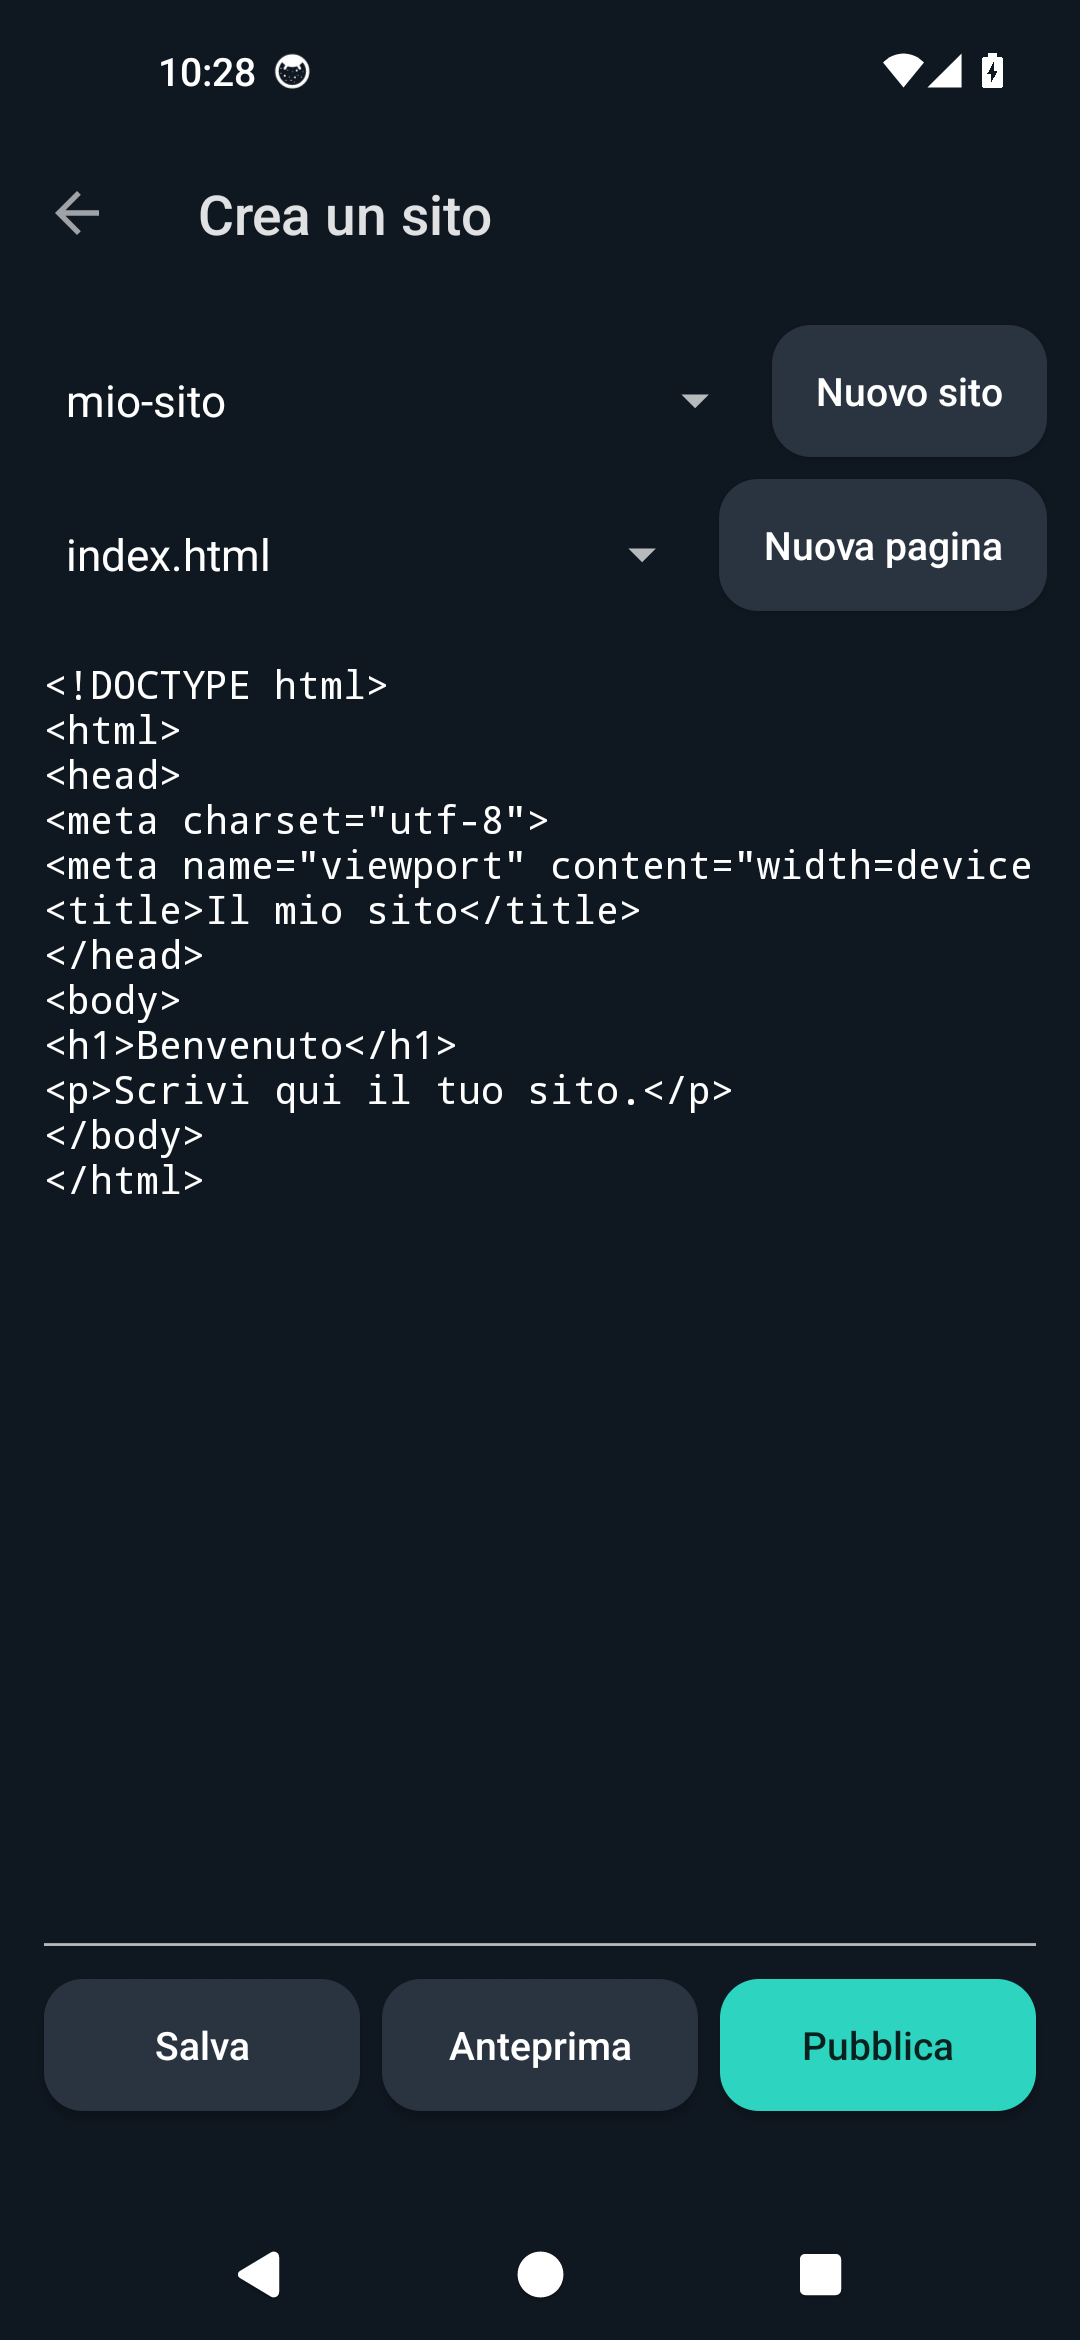
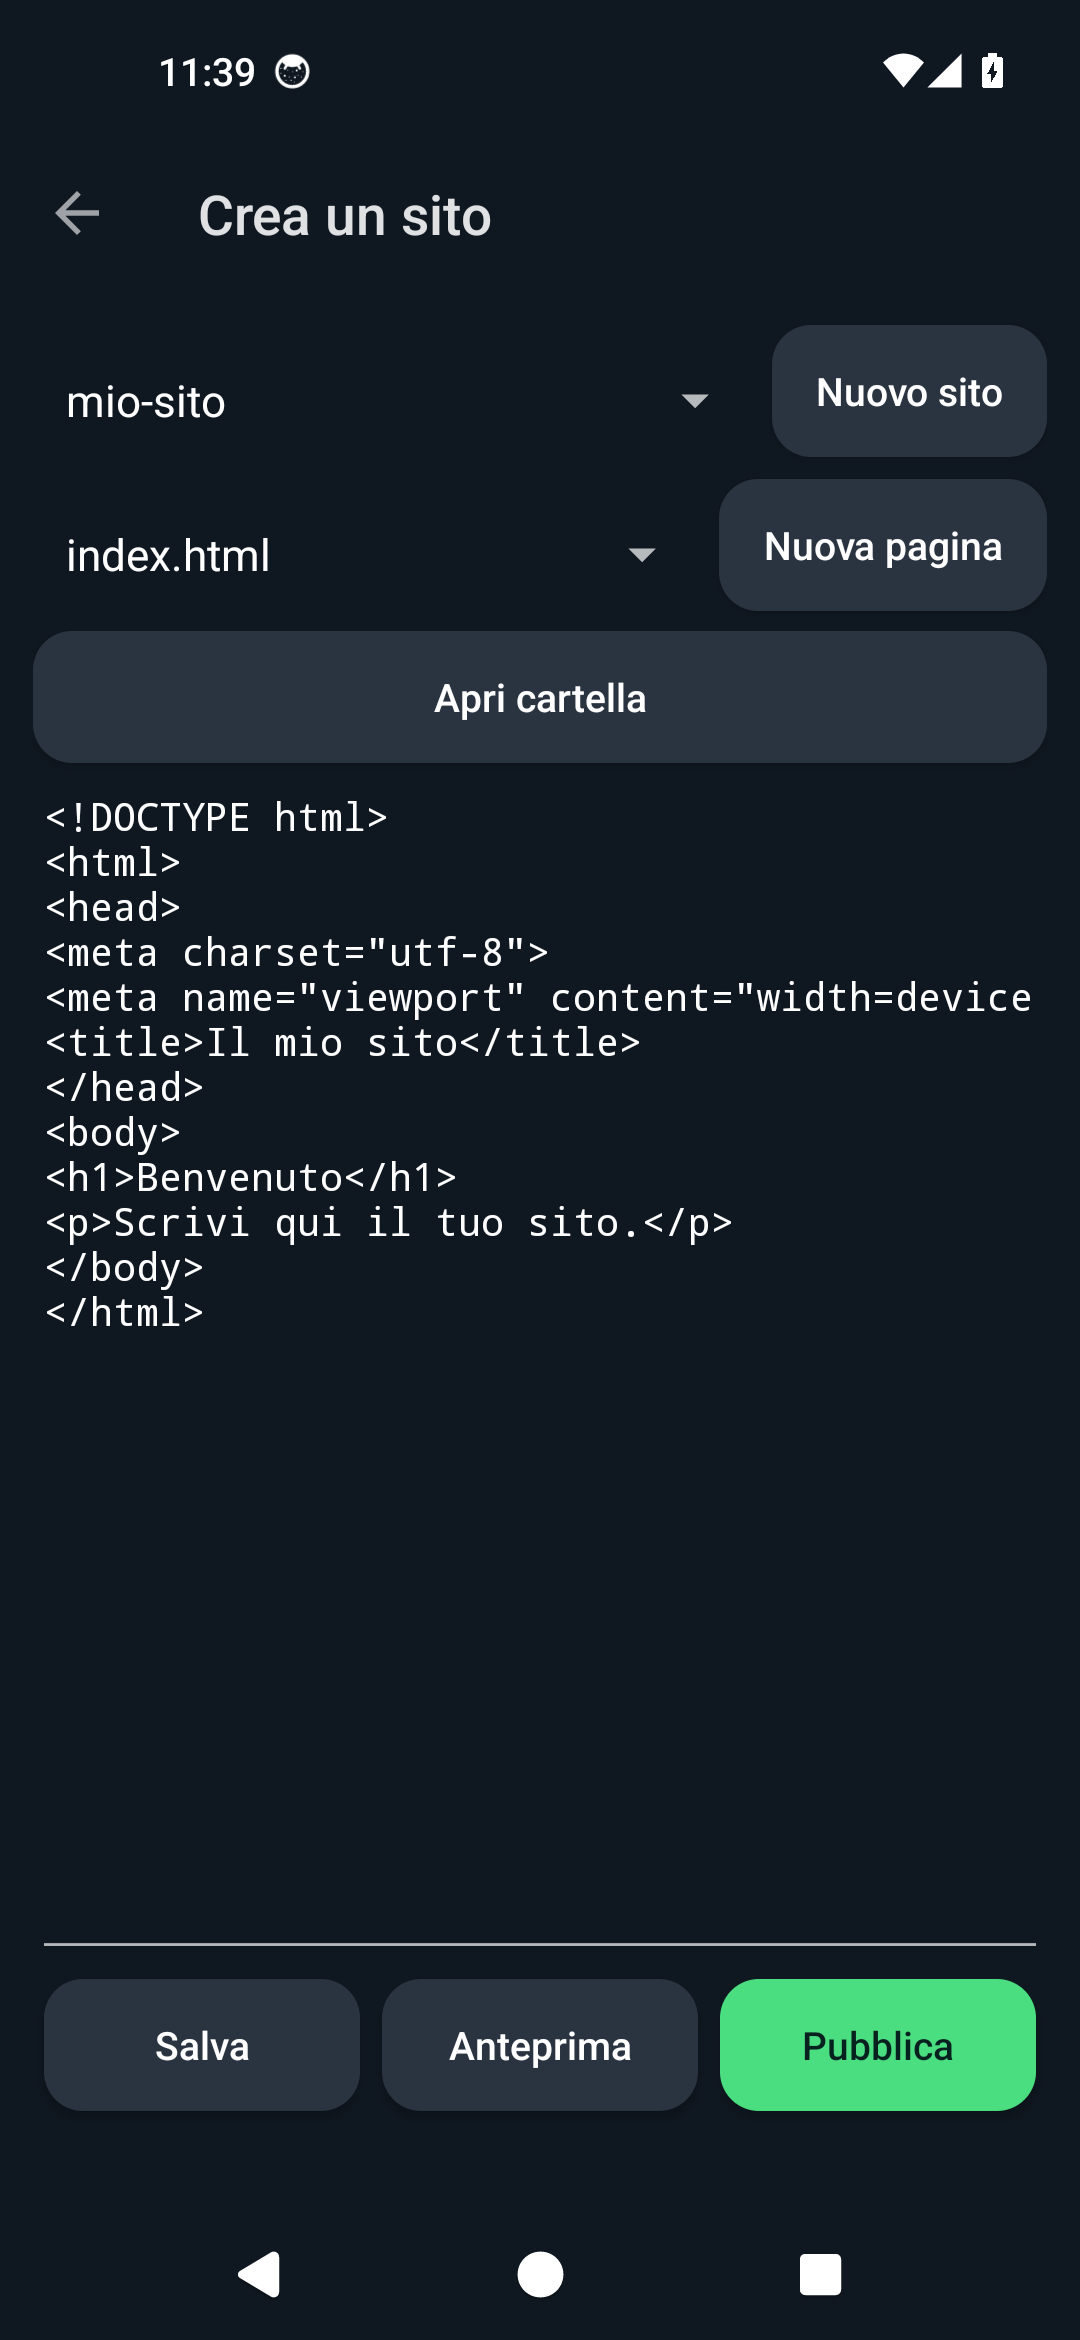
Versione 0.5.5: pulsante Usa dal PC e screenshot in verde

diff --git a/app/src/main/java/org/freenetproject/mobile/ui/main/activity/MainFragment.java b/app/src/main/java/org/freenetproject/mobile/ui/main/activity/MainFragment.java
@@ -1,5 +1,7 @@
 package org.freenetproject.mobile.ui.main.activity;
 
+import android.content.ClipData;
+import android.content.ClipboardManager;
 import android.content.Context;
 import android.content.Intent;
 import android.content.SharedPreferences;
@@ -14,6 +16,7 @@ import android.widget.TextView;
 import android.widget.Toast;
 
 import androidx.annotation.NonNull;
+import androidx.appcompat.app.AlertDialog;
 import androidx.fragment.app.Fragment;
 import androidx.lifecycle.ViewModelProvider;
 
@@ -35,6 +38,7 @@ import java.net.URLEncoder;
 import java.security.NoSuchAlgorithmException;
 
 public class MainFragment extends Fragment {
+    private static final String PC_COMMAND = "adb forward tcp:7509 tcp:7509";
     private static final String RIVER_JOINED = "river_joined";
     private static final String GHOST_KEY_URL = "https://freenet.org/ghostkey/";
     private static final String RIVER_URL = Manager.WEB_URL
@@ -101,6 +105,7 @@ public class MainFragment extends Fragment {
         updateAbout(manager, view);
         view.findViewById(R.id.ghostkey_button).setOnClickListener(v ->
                 startActivity(new Intent(Intent.ACTION_VIEW, Uri.parse(GHOST_KEY_URL))));
+        view.findViewById(R.id.pc_button).setOnClickListener(v -> showPcHelp());
         Button river = view.findViewById(R.id.river_button);
         river.setOnClickListener(v -> openRiver(river));
         manager.getStatus().observe(getViewLifecycleOwner(), status ->
@@ -151,6 +156,18 @@ public class MainFragment extends Fragment {
                 showRiver(invited);
             });
         }, "freenet-river-invite").start();
+    }
+
+    /** Through the USB cable only: the node has no password, so it must not reach the network. */
+    private void showPcHelp() {
+        new AlertDialog.Builder(requireContext())
+                .setTitle(R.string.use_from_pc)
+                .setMessage(getString(R.string.pc_help, PC_COMMAND, Manager.WEB_URL))
+                .setNegativeButton(android.R.string.ok, null)
+                .setPositiveButton(R.string.pc_copy, (d, w) ->
+                        requireContext().getSystemService(ClipboardManager.class)
+                                .setPrimaryClip(ClipData.newPlainText("adb", PC_COMMAND)))
+                .show();
     }
 
     private void showRiver(String url) {

diff --git a/SECURITY.md b/SECURITY.md
@@ -6,7 +6,7 @@ Questa è una versione di prova, non ufficiale, e non è prodotta da The Freenet
 
 | Versione       | Correzioni di sicurezza |
 | -------------- | ----------------------- |
-| 0.5.4          | Sì                      |
+| 0.5.5          | Sì                      |
 | Precedenti     | No                      |
 
 Conviene usare sempre l'ultima versione della pagina
